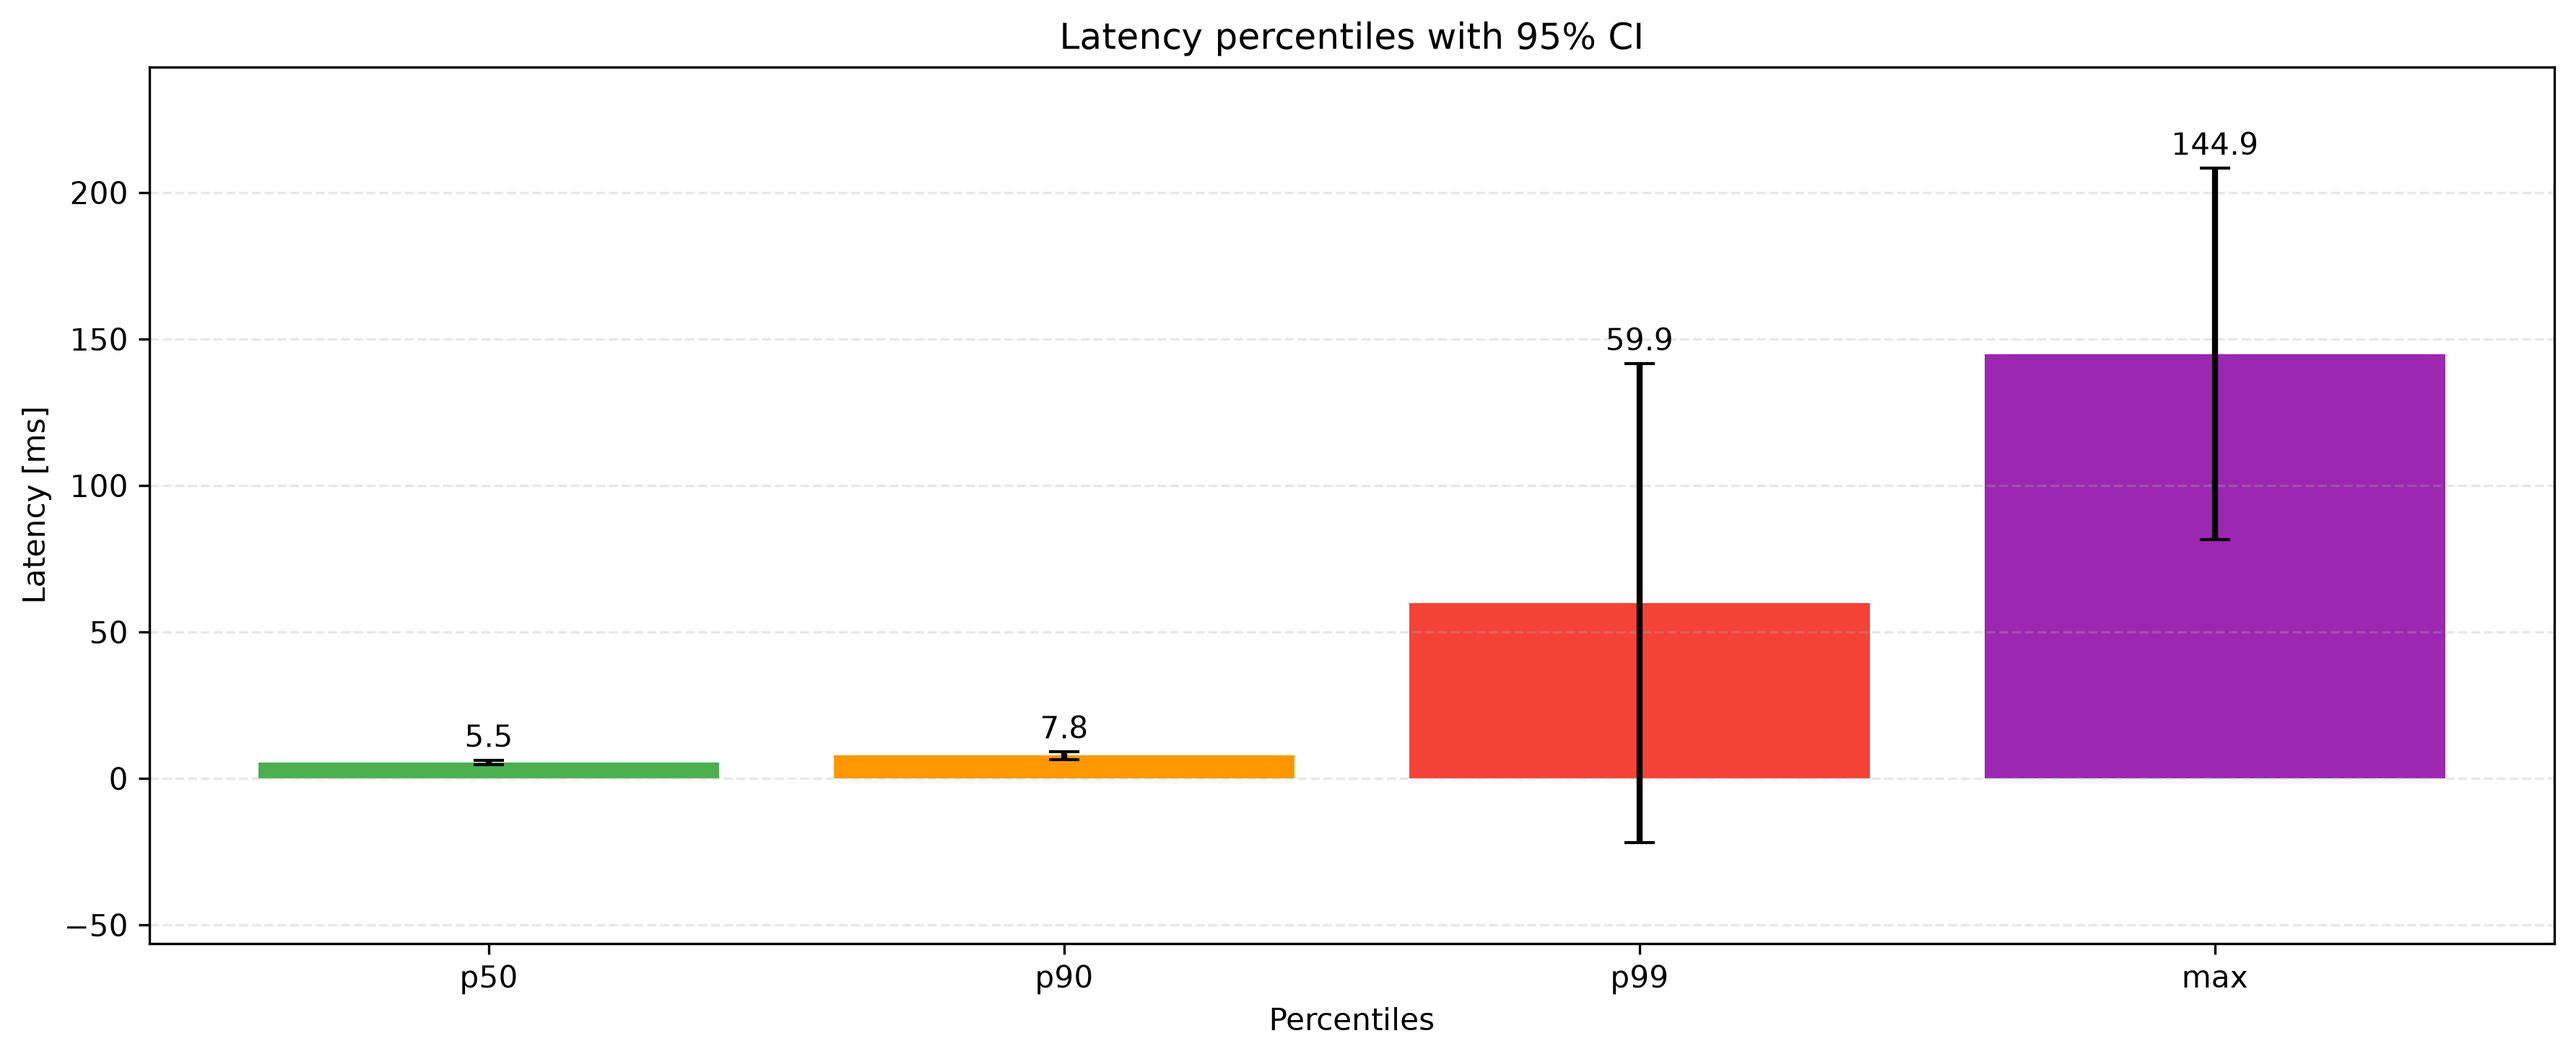
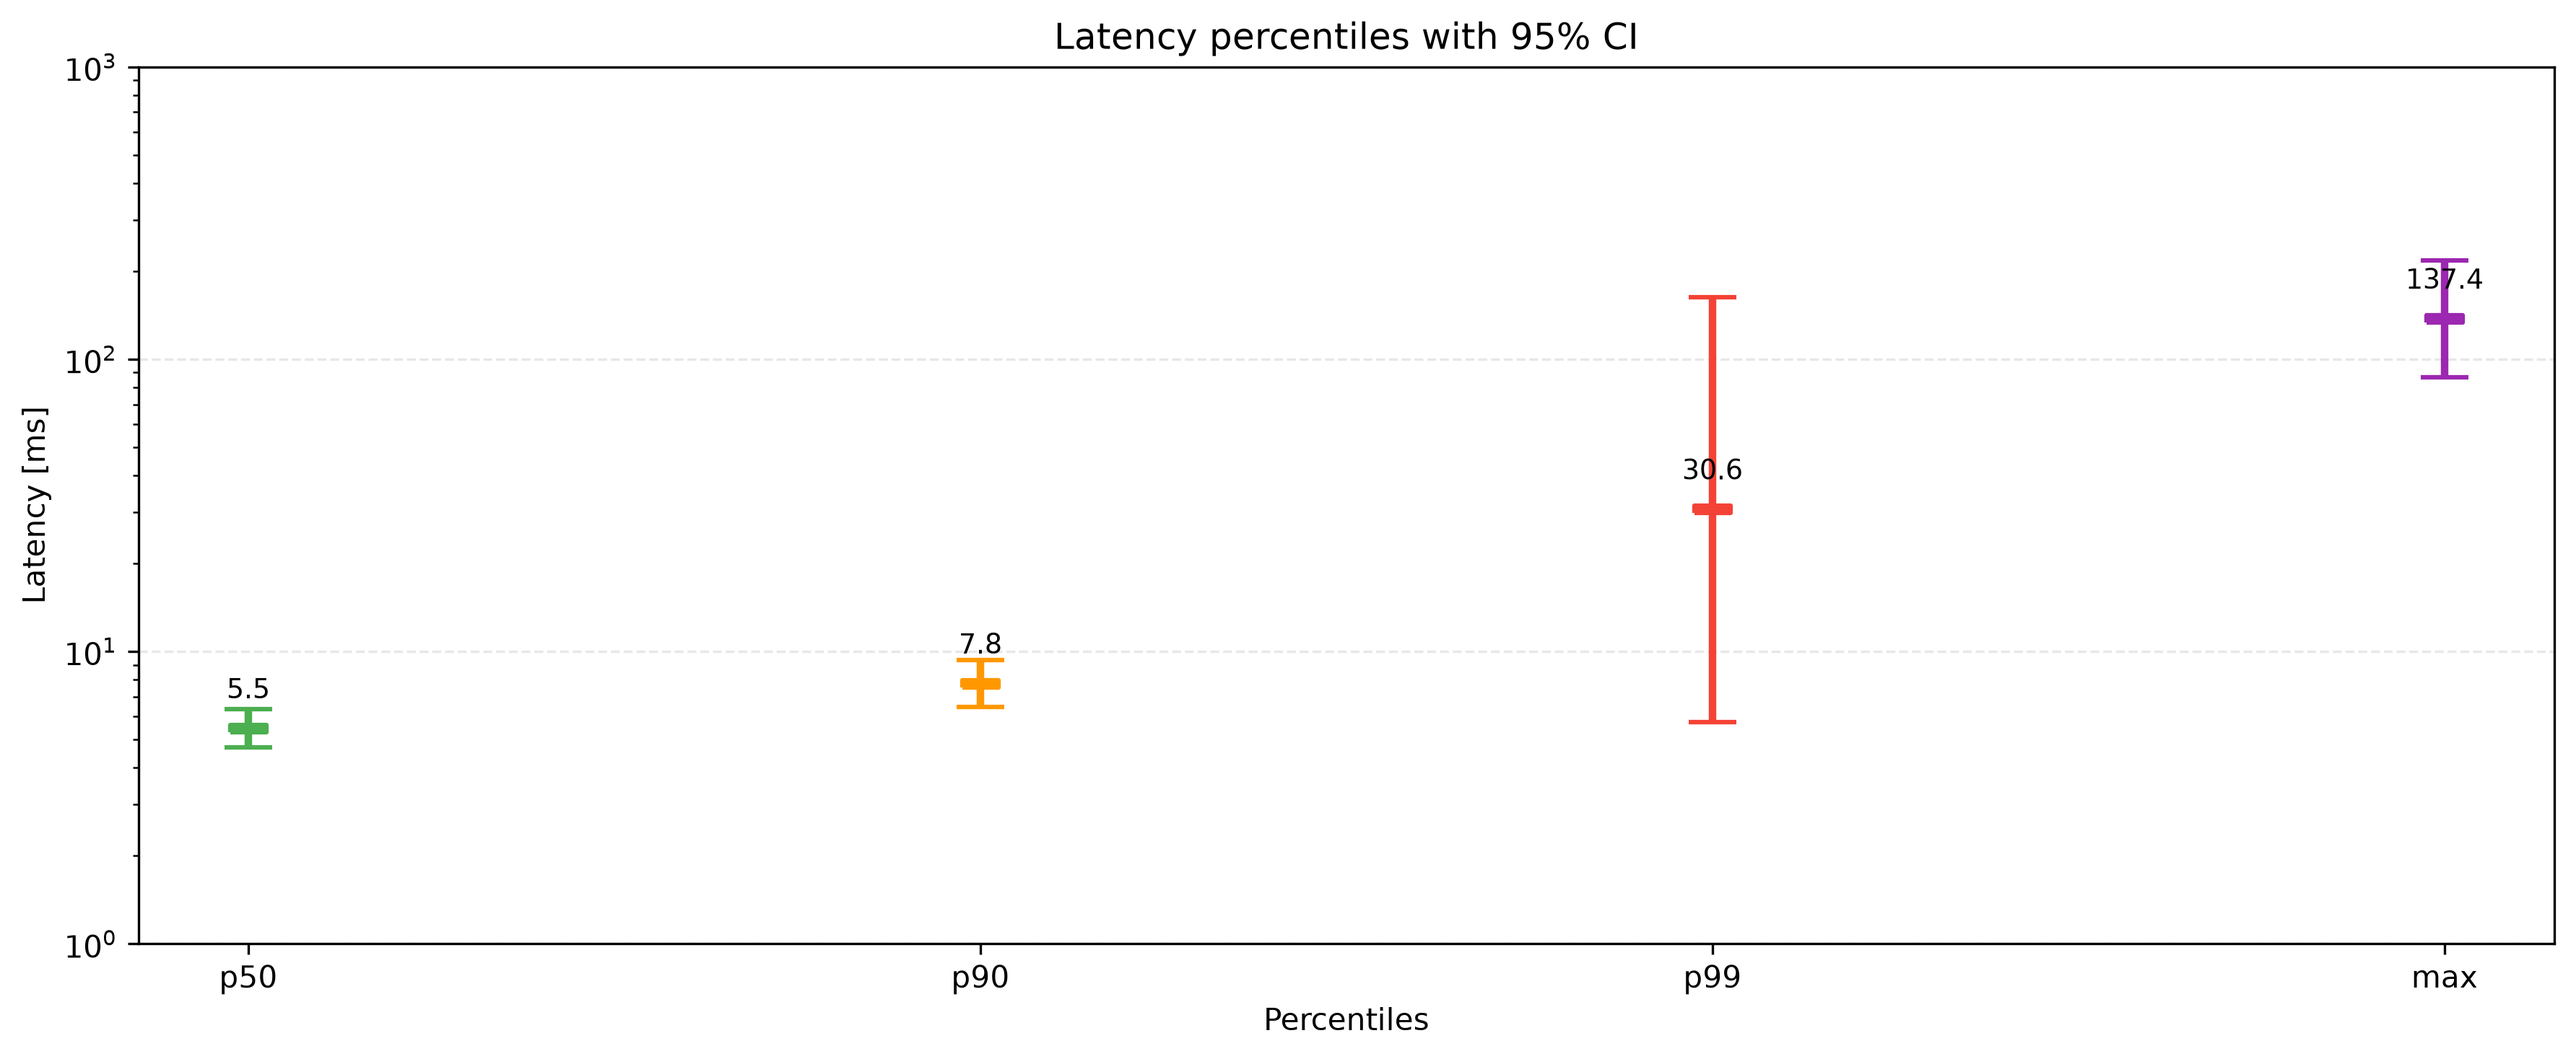
plot better with log scale

diff --git a/plot/interval-latency.py b/plot/interval-latency.py
@@ -1,20 +1,22 @@
 import argparse
 import glob
+import math
 import os
 import sys
 
 import matplotlib.pyplot as plt  # pyright: ignore[reportMissingImports]
+from matplotlib.path import Path  # pyright: ignore[reportMissingImports]
 
 sys.path.insert(0, os.path.dirname(__file__))
 from plot.config import (
     FIGSIZE,
     GREEN,
+    LIGHT_RED,
     ORANGE,
     PURPLE,
     grid_style,
     load_csv,
-    LIGHT_RED,
-    mean_ci,
+    log_ci,
 )
 
 
@@ -42,17 +44,46 @@ def main():
     labels = ["p50", "p90", "p99", "max"]
     colors = [GREEN, ORANGE, LIGHT_RED, PURPLE]
 
-    means, cis = [], []
+    rect_marker = Path(
+        [(-0.75, -0.15), (0.75, -0.15), (0.75, 0.15), (-0.75, 0.15), (-0.75, -0.15)]
+    )
+
+    means, err_low, err_up = [], [], []
     for metric in metrics:
         vals = [row[metric] for row in last_rows]
-        m, lo, hi = mean_ci(vals)
+        m, lo, hi = log_ci(vals)
         means.append(m)
-        cis.append(hi - m)
+        err_low.append(m - lo)
+        err_up.append(hi - m)
 
     _, ax = plt.subplots(figsize=FIGSIZE)
-    bars = ax.bar(labels, means, color=colors, yerr=cis, capsize=5, error_kw={"elinewidth": 2, "capsize": 5})
-    ax.bar_label(bars, fmt="%.1f", padding=2)
-    ax.margins(y=0.15)
+    ax.set_yscale("log")
+    top = 10 ** math.ceil(math.log10(max(m + u for m, u in zip(means, err_up))))
+    bot = 10 ** math.floor(math.log10(min(m - l for m, l in zip(means, err_low))))
+    ax.set_ylim(bottom=bot, top=top)
+
+    for label, m, lo_, up, color in zip(labels, means, err_low, err_up, colors):
+        ax.errorbar(
+            label,
+            m,
+            yerr=[[lo_], [up]],
+            fmt="",
+            marker=rect_marker,
+            ms=12,
+            markeredgewidth=1.5,
+            capsize=8,
+            capthick=2.5,
+            elinewidth=2.5,
+            color=color,
+        )
+        ax.annotate(
+            f"{m:.1f}",
+            (label, m),
+            textcoords="offset points",
+            xytext=(0, 10),
+            ha="center",
+            fontsize=9,
+        )
 
     ax.set_ylabel("Latency [ms]")
     ax.set_xlabel("Percentiles")

diff --git a/plot/config.py b/plot/config.py
@@ -55,6 +55,22 @@ def mean_ci(vals):
     return mean, mean - half, mean + half
 
 
+def log_ci(vals):
+    # Compute the mean and 95% CI on a log scale, then back-transform. This
+    # keeps the interval strictly positive, which matters for latency data
+    # with heavy tails (e.g. p99) where the arithmetic CI can go negative.
+    logs = [math.log10(v) for v in vals]
+    n = len(logs)
+    mean_log = sum(logs) / n
+    mean = 10**mean_log
+    if n < 2:
+        return mean, mean, mean
+    var = sum((x - mean_log) ** 2 for x in logs) / (n - 1)
+    std = math.sqrt(var)
+    half = t_critical(n) * std / math.sqrt(n)
+    return mean, 10 ** (mean_log - half), 10 ** (mean_log + half)
+
+
 def compute_ci_from_dir(data_dir):
     csvs = sorted(glob.glob(os.path.join(data_dir, "**/*.csv"), recursive=True))
     csvs = [f for f in csvs if "summary" not in f and "avg" not in f]
